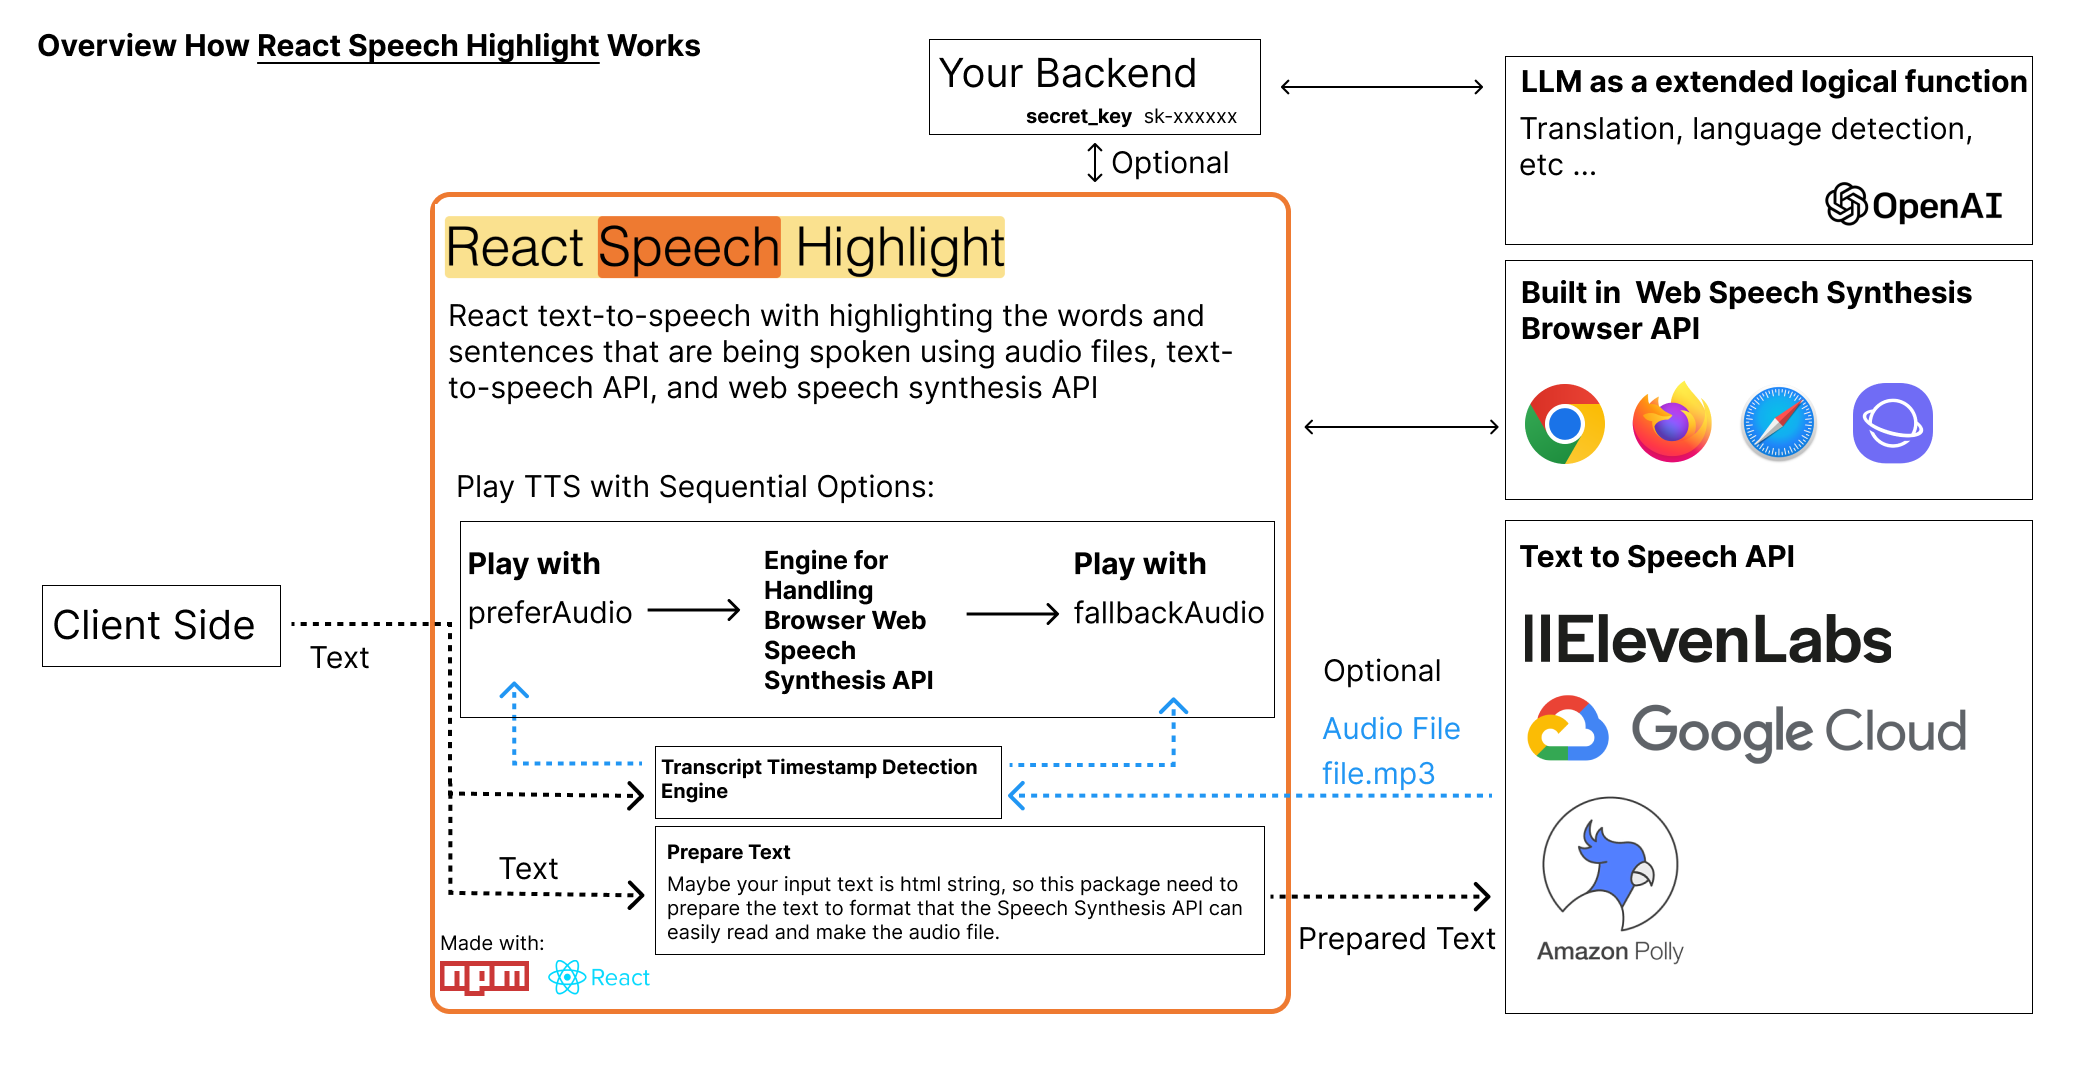
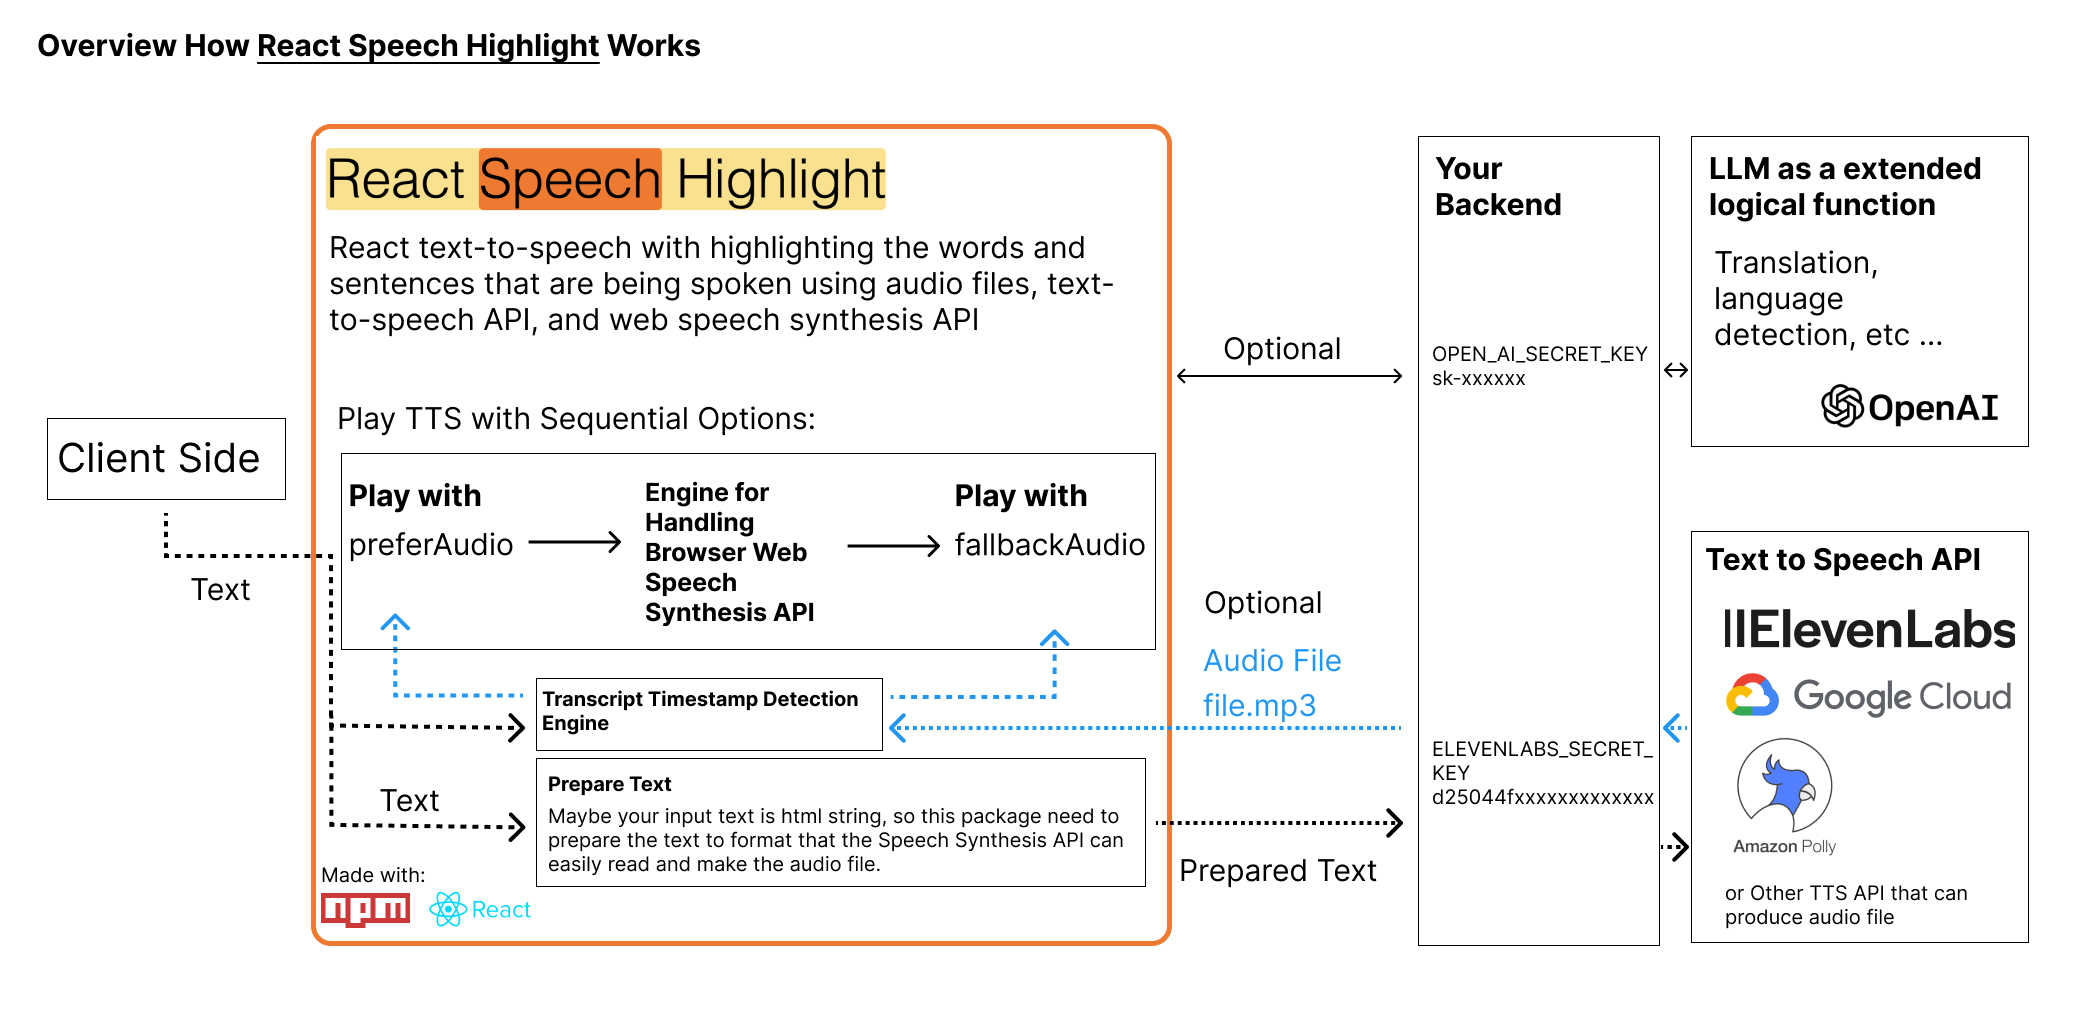
TTS Backend with Laravel

diff --git a/AUDIO_FILE.md b/AUDIO_FILE.md
@@ -14,53 +14,86 @@ Here i provide you with the best options:
 
 Here the code how you can integrate elevenlabs or other speech synthesis services with this package.
 
-```jsx
-// Define a function called textToSpeech that takes in a string called inputText as its argument.
-const textToSpeechUsingElvenLabs = async (inputText) => {
-  // Set the API key for ElevenLabs API.
-  // Do not use directly. Use environment variables.
-  const API_KEY = process.env.NEXT_PUBLIC_ELEVEN_LABS_API_KEY; // d25044f64b7xxxxxxxxxxxxx
-  // Set the ID of the voice to be used.
-  const VOICE_ID = "21m00Tcm4TlvDq8ikWAM";
+<details>
+  <summary>Backend with Laravel</summary>
 
-  // Set options for the API request.
-  const options = {
-    method: "POST",
-    url: `https://api.elevenlabs.io/v1/text-to-speech/${VOICE_ID}`,
-    headers: {
-      accept: "audio/mpeg", // Set the expected response type to audio/mpeg.
-      "content-type": "application/json", // Set the content type to application/json.
-      "xi-api-key": `${API_KEY}`, // Set the API key in the headers.
-    },
-    data: {
-      text: inputText, // Pass in the inputText as the text to be converted to speech.
-    },
-    responseType: "arraybuffer", // Set the responseType to arraybuffer to receive binary data as response.
+  ```php
+    public function textToSpeech(Request $request)
+    {
+      $api_key = config('elevenlabs.api_key');
+
+      $voice_id = isset($request['voice_id']) ? $request['voice_id'] : '21m00Tcm4TlvDq8ikWAM'; // Set the ID of the voice to be used
+
+      $client = new \GuzzleHttp\Client([
+          'headers' => [
+              'Accept' => 'audio/mpeg',
+              'Content-Type' => 'application/json',
+              'xi-api-key' => $api_key
+          ]
+      ]);
+
+      $response = $client->request('POST', "https://api.elevenlabs.io/v1/text-to-speech/$voice_id", [
+          'json' => $request->all(),
+          'sink' => storage_path('app/public/audio.mp3') // Save the audio response to a file
+      ]);
+
+      // Return the audio file as a response
+      return response()->file(storage_path('app/public/audio.mp3'), [
+          'Content-Type' => 'audio/mpeg',
+          'Content-Disposition' => 'inline; filename="audio.mp3"'
+      ]);
+    }
+
+  ```
+
+  ```jsx
+  export const textToSpeechUsingElvenLabs = async (inputText) => {
+    // Set the ID of the voice to be used.
+    const VOICE_ID = "21m00Tcm4TlvDq8ikWAM";
+
+    const response = await fetch(
+      process.env.NEXT_PUBLIC_ELEVEN_LABS_API_ENDPOINT, // Your backend enpoint
+      {
+        method: "POST",
+        headers: {
+          "Content-Type": "application/json",
+        },
+        body: JSON.stringify({
+          voice_id: VOICE_ID,
+          text: inputText,
+          model_id: "eleven_multilingual_v2",
+          stability: 0.5, // The stability for the converted speech
+          similarity_boost: 0.5, // The similarity boost for the converted speech
+          style: 1, // The style exaggeration for the converted speech
+          speaker_boost: true, // The speaker boost for the converted speech
+        }),
+      }
+    );
+
+    // Convert the response data to a Blob
+    const data = await response.blob();
+
+    // Create a Blob URL
+    const blobUrl = URL.createObjectURL(data);
+
+    return blobUrl;
   };
 
-  // Send the API request using Axios and wait for the response.
-  const speechDetails = await axios.request(options);
+  import { convertTextIntoClearTranscriptText } from "react-speech-highlight";
 
-  // Return the binary audio data received from the API response.
-  const blob = new Blob([speechDetails.data], { type: "audio/mpeg" });
-  // Create a URL for the blob object
-  const url = URL.createObjectURL(blob);
-  return url;
-};
+  var clear_transcript = convertTextIntoClearTranscriptText("This is example text you can set");
 
-import { convertTextIntoClearTranscriptText } from "react-speech-highlight";
+  const audioURL = await textToSpeechUsingElvenLabs(clear_transcript)
 
-var clear_transcript = convertTextIntoClearTranscriptText("This is example text you can set");
+  const { controlHL, statusHL, prepareHL, spokenHL } = useTextToSpeech({
+    lang: "en",
+    preferAudio: audioURL,
+    //or
+  //   fallbackAudio: audioURL,
+  });
+  ```
+</details>
 
-const audioURL = await textToSpeechUsingElvenLabs(clear_transcript)
-
-const { controlHL, statusHL, prepareHL, spokenHL } = useTextToSpeech({
-  lang: "en",
-  preferAudio: audioURL,
-  //or
-//   fallbackAudio: audioURL,
-});
-```
 
 <br>
 
